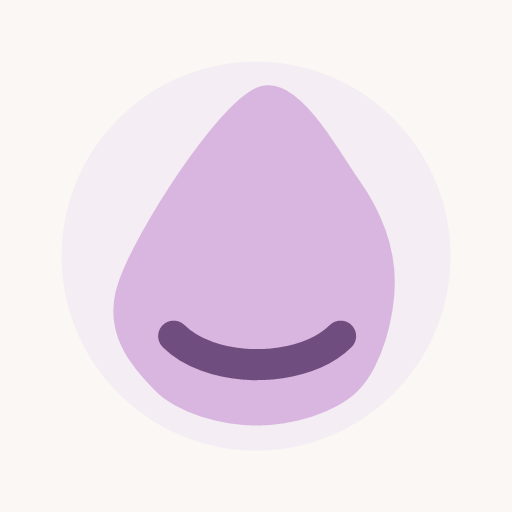
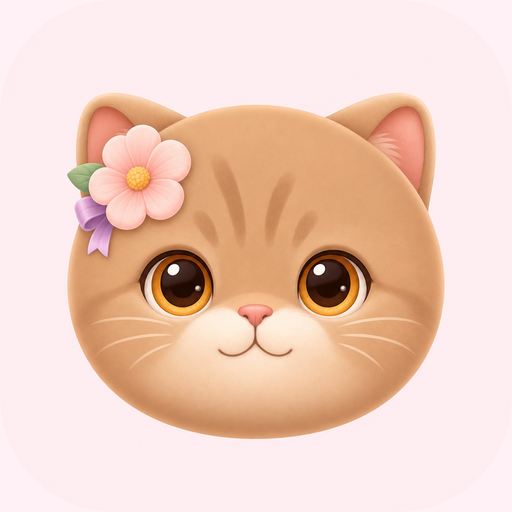
ui improvement

diff --git a/src/index.css b/src/index.css
@@ -170,6 +170,73 @@ textarea:focus-visible {
   transition: width 360ms ease;
 }
 
+.mascot-row {
+  display: grid;
+  grid-template-columns: auto minmax(0, 1fr);
+  align-items: center;
+  gap: 0.9rem;
+  margin-top: 1rem;
+}
+
+.mascot-button {
+  width: 5.8rem;
+  height: 5.8rem;
+  border: 0;
+  border-radius: 1rem;
+  background:
+    linear-gradient(180deg, rgba(255, 255, 255, 0.74), rgba(255, 241, 247, 0.54)),
+    rgba(255, 255, 255, 0.42);
+  padding: 0.15rem;
+  cursor: pointer;
+  filter: drop-shadow(0 12px 18px rgba(99, 57, 93, 0.15));
+  transition:
+    filter 160ms ease,
+    transform 160ms ease;
+}
+
+.mascot-button:hover {
+  filter: drop-shadow(0 16px 22px rgba(99, 57, 93, 0.18));
+  transform: translateY(-2px) rotate(-2deg) scale(1.03);
+}
+
+.mascot-button:active {
+  transform: translateY(1px) scale(0.98);
+}
+
+.mascot-button img {
+  display: block;
+  width: 100%;
+  height: 100%;
+  object-fit: contain;
+  user-select: none;
+}
+
+.mascot-note {
+  display: grid;
+  gap: 0.2rem;
+  border: 1px solid rgba(126, 87, 194, 0.18);
+  border-radius: 0.9rem;
+  background:
+    linear-gradient(180deg, rgba(255, 255, 255, 0.72), rgba(250, 245, 255, 0.78)),
+    #faf5ff;
+  color: #563467;
+  padding: 0.8rem 0.95rem;
+  box-shadow: inset 4px 0 0 #c4b5fd;
+}
+
+.mascot-note span {
+  color: #87659d;
+  font-size: 0.72rem;
+  font-weight: 800;
+  letter-spacing: 0.08em;
+  text-transform: uppercase;
+}
+
+.mascot-note strong {
+  font-size: 0.95rem;
+  line-height: 1.35;
+}
+
 .card {
   padding: 1.25rem;
 }
@@ -685,6 +752,15 @@ textarea:focus-visible {
 @media (max-width: 420px) {
   .hero-title-row {
     display: grid;
+  }
+
+  .mascot-row {
+    grid-template-columns: 1fr;
+  }
+
+  .mascot-button {
+    width: 5.4rem;
+    height: 5.4rem;
   }
 
   .countdown-orb {

diff --git a/src/screens/HomeScreen.tsx b/src/screens/HomeScreen.tsx
@@ -4,6 +4,7 @@ import { CalendarPlus, Droplets, Heart, Moon, Sparkles, Sun } from 'lucide-react
 import type { AppSettings, PeriodRecord } from '../types'
 import { formatFriendlyDate, todayIsoDate } from '../lib/date'
 import { PeriodForm } from '../components/PeriodForm'
+import mascotImage from '../assets/cyclekind-cat-mascot.png'
 
 type HomeScreenProps = {
   latestRecord?: PeriodRecord
@@ -39,6 +40,13 @@ const comfortPicks = [
   },
 ]
 
+const mascotMessages = [
+  'Tiny paws, tiny steps, still counts.',
+  'Your cozy cat says soft day mode is allowed.',
+  'Sip some water and be gentle with yourself.',
+  'A flower for you, because you are doing enough.',
+]
+
 export function HomeScreen({
   latestRecord,
   predictedNextStartDate,
@@ -46,6 +54,7 @@ export function HomeScreen({
   onAddRecord,
 }: HomeScreenProps) {
   const [selectedComfortId, setSelectedComfortId] = useState(comfortPicks[0].id)
+  const [mascotMessageIndex, setMascotMessageIndex] = useState(0)
   const selectedComfort =
     comfortPicks.find((item) => item.id === selectedComfortId) ?? comfortPicks[0]
   const SelectedComfortIcon = selectedComfort.icon
@@ -113,6 +122,29 @@ export function HomeScreen({
                 ? 'past'
                 : 'days'}
             </small>
+          </div>
+        </div>
+        <div className="mascot-row">
+          <button
+            className="mascot-button"
+            type="button"
+            aria-label="Tap cat mascot for a gentle note"
+            onClick={() =>
+              setMascotMessageIndex(
+                (current) => (current + 1) % mascotMessages.length,
+              )
+            }
+          >
+            <img
+              src={mascotImage}
+              alt=""
+              aria-hidden="true"
+              draggable={false}
+            />
+          </button>
+          <div className="mascot-note" role="status">
+            <span>Cat note</span>
+            <strong>{mascotMessages[mascotMessageIndex]}</strong>
           </div>
         </div>
         <div